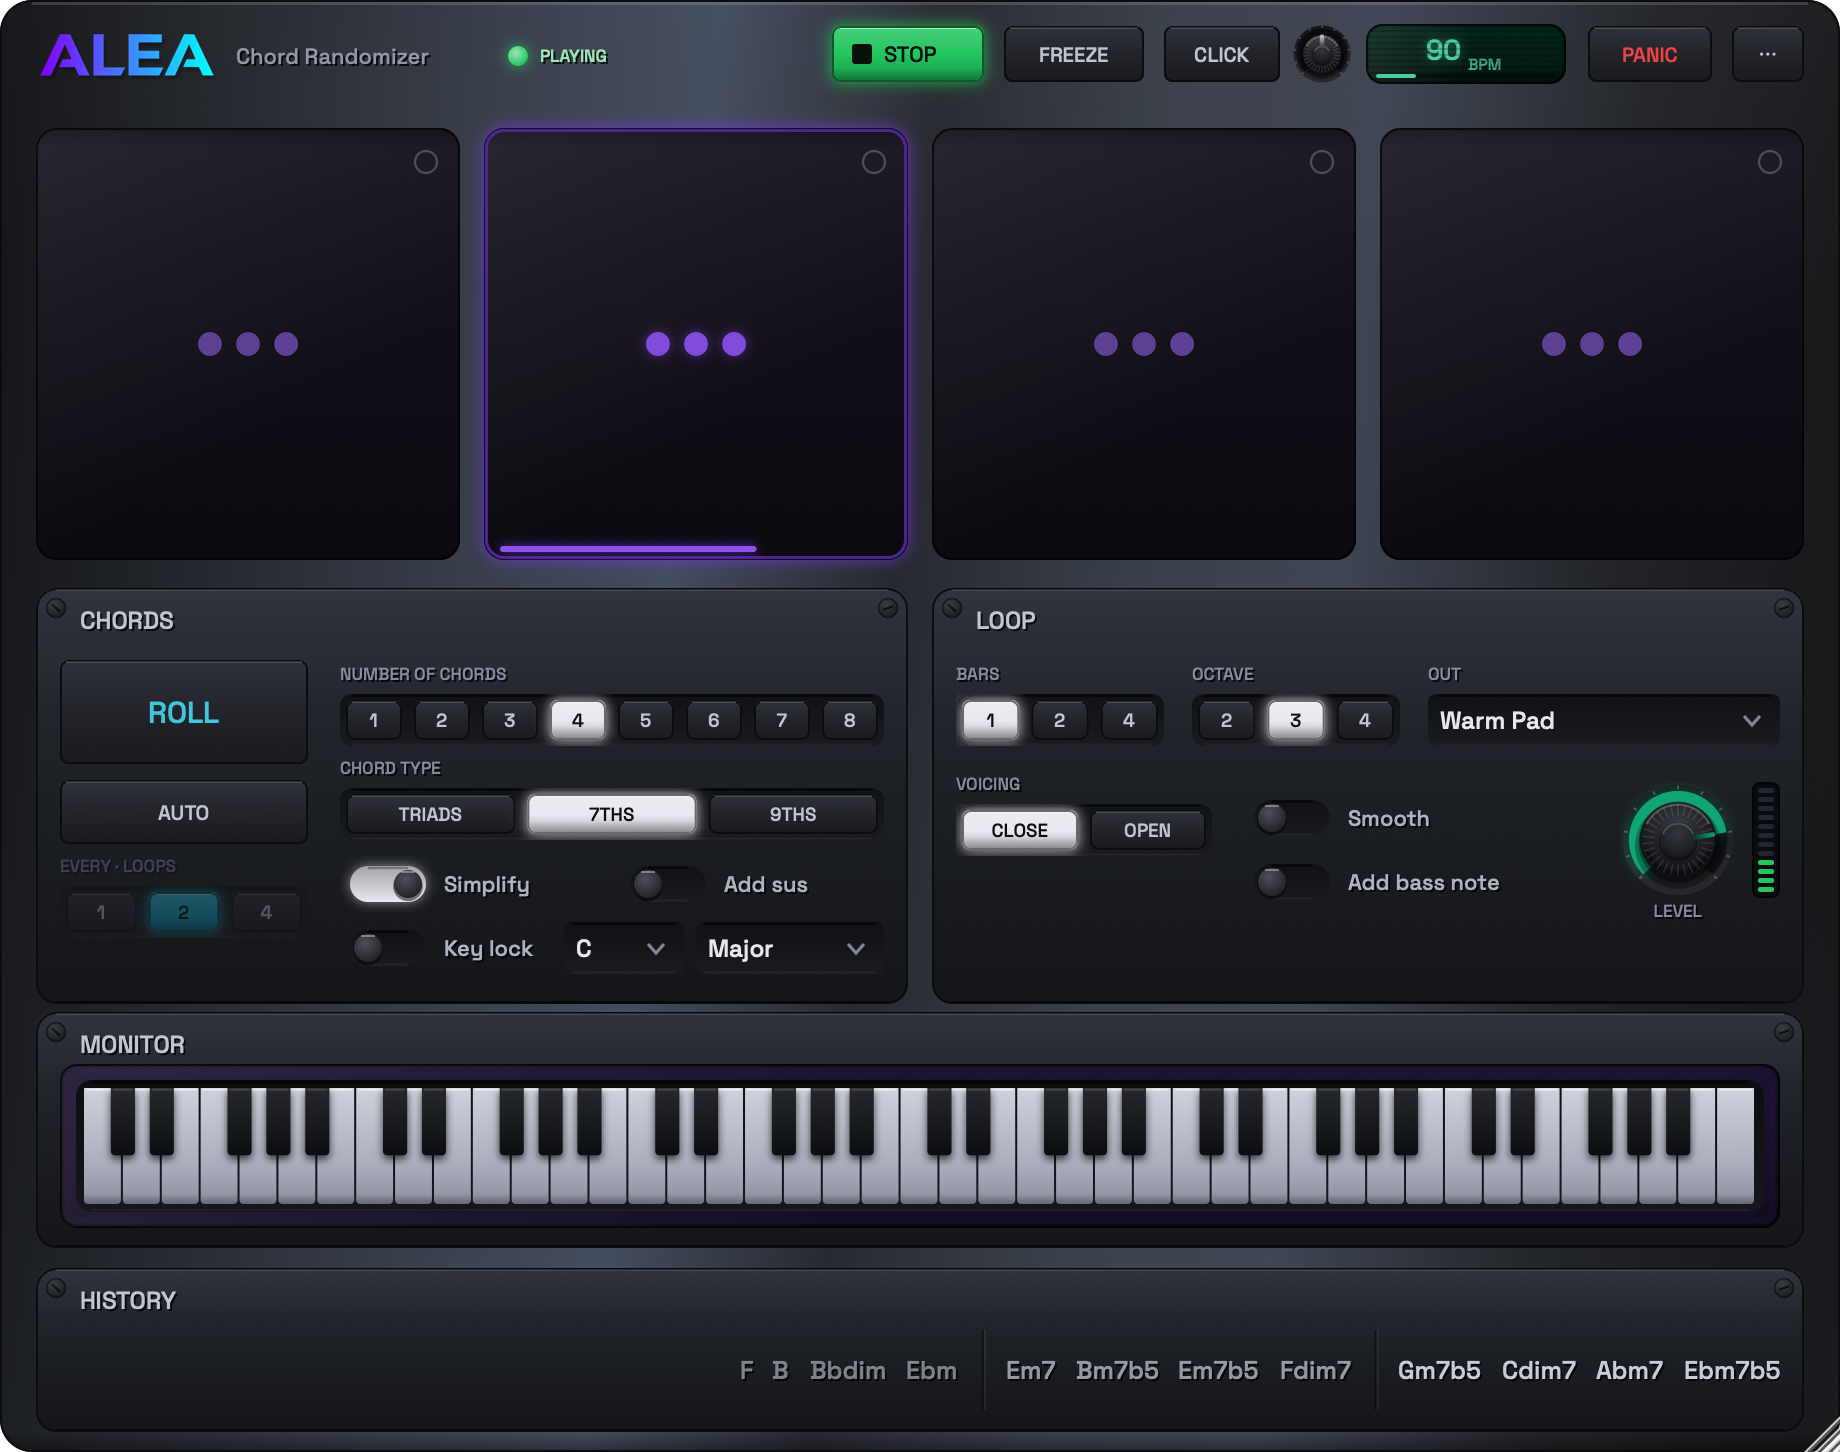
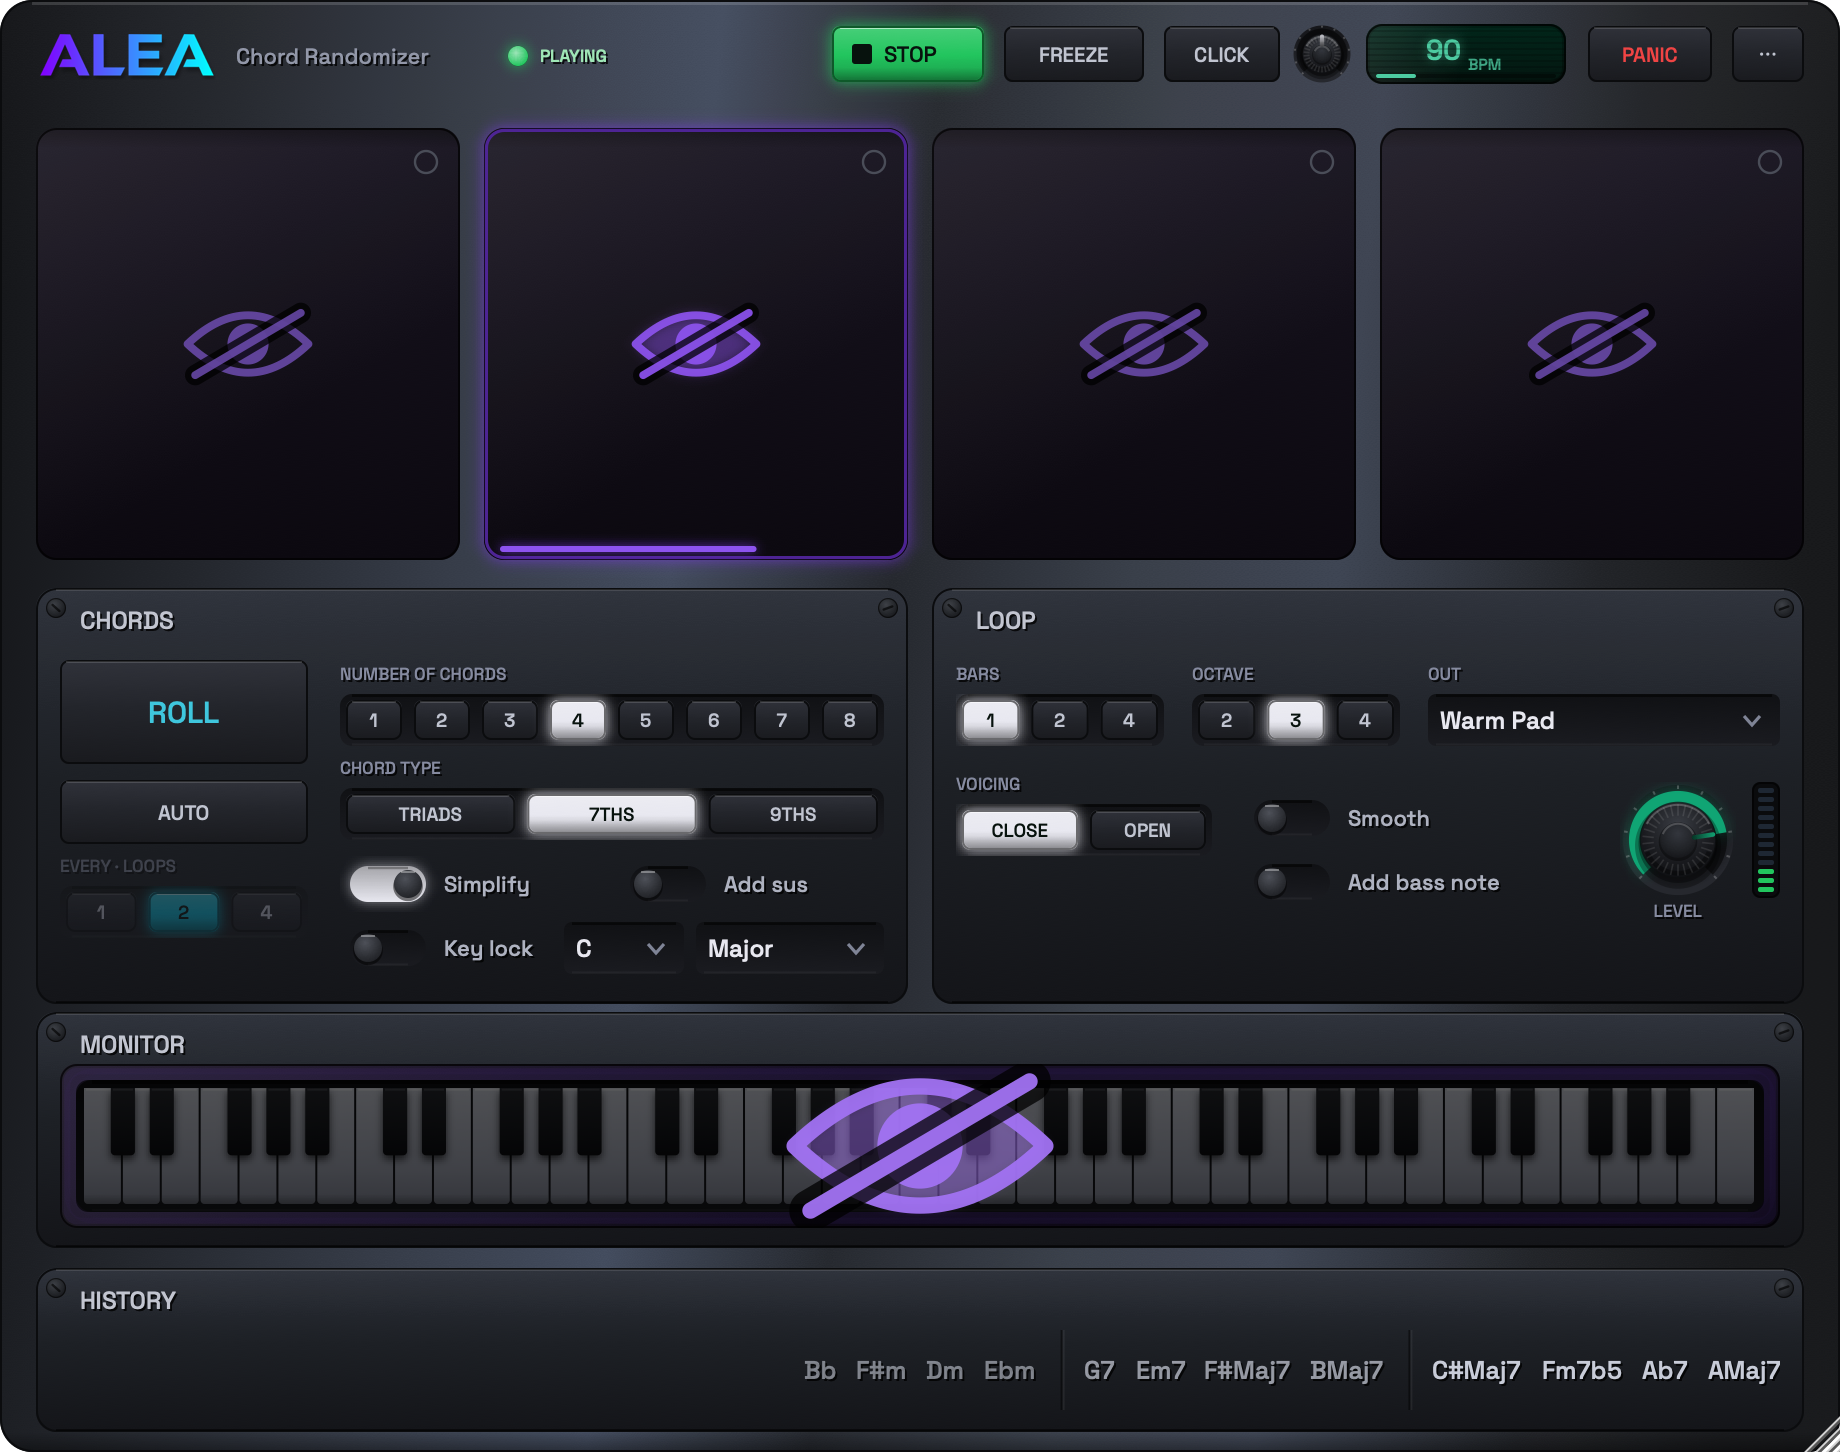
The hidden state says "hidden", and history stops flickering
Four things from Yuval's QA.

History no longer hides anything. The one exception - the still-sounding
series during a pending swap - was correct in theory and wrong in use: it
showed dots for a second or two after every mid-loop roll, which read as a
glitch rather than a rule. His call stands: once a set has been replaced it
is in history, and history reads. The soundingHistoryIndex machinery and its
test go with it.

Three dots said "loading" more than "hidden". Both the cards and the monitor
now wear the crossed-out eye from image editors, drawn as a shared
hw::eyeOff so one meaning has one icon.

The monitor had no indication at all that it was withholding, so a dark
keybed was indistinguishable from a broken one. It dims and carries the same
eye. The app's rule is that the UI never lies, and going quiet with no
explanation is a lie by omission.

Renamed to "ear workout mode" throughout, and the menu item now reads
"Toggle ear workout mode" - it is a switch, and the label should say so.

diff --git a/Source/Chords/ChordsEditor.cpp b/Source/Chords/ChordsEditor.cpp
@@ -31,10 +31,10 @@ namespace
         "MONITOR shows what is sounding. Make the window shorter to "
         "tuck it away and find the chord's notes yourself, a nice "
         "theory workout.\n\n"
-        "The EAR workout is its opposite (press E, or the top-right menu): "
-        "the chord names, the previews and the monitor all hide, and you "
-        "name what you hear. The three dots on a card reveal that one "
-        "chord, and they stay open until the next roll.\n\n"
+        "EAR WORKOUT MODE is its opposite (press E, or the top-right menu): "
+        "the chord names, the previews and the monitor all hide behind a "
+        "crossed-out eye, and you name what you hear. Click the eye on a "
+        "card to reveal that one chord; it stays open until the next roll.\n\n"
         "AUTO rolls for you every few loops (press A to flip it). "
         "Pin a chord (the little dot on its card) and it survives "
         "rolls. Keep what you love, reroll the rest.\n\n"
@@ -118,28 +118,14 @@ void ChordsEditor::ChordCard::paint (juce::Graphics& g)
     // fully lit with a glow while sounding (cyan when it is the incoming one).
     if (hidden)
     {
-        // Withheld, not empty: three drawn dots where the name belongs. They
-        // wear the card's own accent so a sounding card still reads as
-        // sounding, but dimmer than a name would be - the card is telling you
-        // it is holding something back (spec M6). Drawn, never a font glyph.
-        const float r = juce::jmax (3.0f, fontSize * 0.075f);
-        const float gap = r * 3.2f;
-        const auto c = getLocalBounds().toFloat().getCentre();
-        const auto dot = lit ? accent.brighter (0.15f).withAlpha (0.85f)
-                             : colors::purple.interpolatedWith (juce::Colour (0xff6b6f80), 0.45f)
-                                             .withAlpha (0.75f);
-        for (int i = -1; i <= 1; ++i)
-        {
-            const juce::Rectangle<float> d (c.x + (float) i * gap - r, c.y - r, r * 2.0f, r * 2.0f);
-            if (lit)
-            {
-                juce::Path p;
-                p.addEllipse (d);
-                hw::dropGlow (g, p, accent.withAlpha (0.55f), 6);
-            }
-            g.setColour (dot);
-            g.fillEllipse (d);
-        }
+        // Withheld, not empty. Three dots said "loading" more than "hidden"
+        // (Yuval, Aug 14), so the card wears the crossed-out eye everyone
+        // knows from image editors instead. It keeps the card's own accent,
+        // so a sounding card still reads as sounding.
+        const auto ink = lit ? accent.brighter (0.15f)
+                             : colors::purple.interpolatedWith (juce::Colour (0xff6b6f80), 0.45f);
+        hw::eyeOff (g, getLocalBounds().toFloat().withSizeKeepingCentre (fontSize * 0.92f, fontSize * 0.52f),
+                    ink.withAlpha (lit ? 0.92f : 0.78f), lit);
     }
     else
     {
@@ -204,7 +190,9 @@ void ChordsEditor::MonitorStrip::paint (juce::Graphics& g)
 
     // Ear workout: the keys are the answer written in notes, so they stay
     // dark until the sounding card is revealed (spec M6). The screen itself
-    // still glows - the monitor is present, just not telling.
+    // still glows, and it wears the crossed-out eye - without that, a dark
+    // keybed reads as a broken monitor rather than a deliberate one
+    // (Yuval, Aug 14).
     bool lit[128] = {};
     if (! suppressed)
     {
@@ -271,6 +259,19 @@ void ChordsEditor::MonitorStrip::paint (juce::Graphics& g)
     };
     if (below) arrow (true);
     if (above) arrow (false);
+
+    // The monitor says it is withholding, rather than just going quiet. A dark
+    // keybed with no explanation is indistinguishable from a broken one, and
+    // the app's own rule is that the UI never lies by omission either.
+    if (suppressed)
+    {
+        // Dim the keys behind it so the icon has something to sit on, then the
+        // same crossed-out eye the cards wear - one idiom for one meaning.
+        g.setColour (juce::Colours::black.withAlpha (0.62f));
+        g.fillRoundedRectangle (bed, 6.0f);
+        hw::eyeOff (g, bed.withSizeKeepingCentre (bed.getHeight() * 1.9f, bed.getHeight() * 0.95f),
+                    colors::purple.brighter (0.4f).withAlpha (0.95f), true);
+    }
 }
 
 //==============================================================================
@@ -291,28 +292,18 @@ void ChordsEditor::HistoryTicker::paint (juce::Graphics& g)
     const juce::Font font { juce::FontOptions (16.0f, juce::Font::bold) };
     constexpr float chordGap = 10.0f, groupGap = 24.0f;
 
-    // A hidden chord occupies a FIXED width, never its name's width. Sizing a
-    // blinded cell from the real text would let the spacing spell out how long
-    // the chord name is, which is most of the answer (QA Aug 14).
-    const float hiddenW = font.getHeight() * 2.2f;
-
     // Measure every group once: total content width bounds the scroll range.
-    // Blinded groups measure at the hidden width so the layout does not shift
-    // when a group hides or reveals.
     std::vector<float> groupWidths;
     groupWidths.reserve (proc.history.size());
     float contentW = 0.0f;
-    int measured = 0;
     for (const auto& roll : proc.history)
     {
-        const bool groupBlind = measured == blindGroup;
         float groupW = 0.0f;
         for (const auto& c : roll)
-            groupW += (groupBlind ? hiddenW : textWidth (font, c.text())) + chordGap;
+            groupW += textWidth (font, c.text()) + chordGap;
         groupW -= chordGap;
         groupWidths.push_back (groupW);
         contentW += groupW + groupGap;
-        ++measured;
     }
     contentW -= groupGap;
 
@@ -369,28 +360,13 @@ void ChordsEditor::HistoryTicker::paint (juce::Graphics& g)
                              .withAlpha (age == hoveredGroup ? 1.0f : alpha * (age == 0 ? 1.0f : 0.85f));
         g.setFont (font);
 
-        // Ear workout: everything in history is a roll you have already moved
-        // past, so it reads normally - EXCEPT the entry that is STILL
-        // SOUNDING, which a mid-loop roll files here before it stops playing.
-        // The editor supplies its index, because it is not always the newest.
-        const bool blind = age == blindGroup;
-
         float x = startX;
         for (const auto& c : roll)
         {
             const auto t = c.text();
-            const float w = blind ? hiddenW : textWidth (font, t);
+            const float w = textWidth (font, t);
             const auto cell = juce::Rectangle<float> (x, area.getY(), w + 2.0f, area.getHeight()).toNearestInt();
-            if (blind)
-            {
-                const float r = juce::jmax (1.5f, font.getHeight() * 0.09f);
-                const auto centre = cell.toFloat().getCentre();
-                g.setColour (ink);
-                for (int d = -1; d <= 1; ++d)
-                    g.fillEllipse (centre.x + (float) d * r * 3.2f - r, centre.y - r, r * 2.0f, r * 2.0f);
-            }
-            else
-                hw::engraved (g, t, cell, juce::Justification::centredLeft, ink);
+            hw::engraved (g, t, cell, juce::Justification::centredLeft, ink);
             x += w + chordGap;
         }
 
@@ -1050,10 +1026,6 @@ void ChordsEditor::refresh()
     monitor.suppressed = ear
                       && ! (sounding >= 0 && sounding < (int) revealed.size()
                             && revealed[(size_t) sounding]);
-    // The ear workout hides the history entry that is still sounding; the
-    // processor owns that lookup, so the rule is testable and lives once.
-    ticker.blindGroup = ear && pendingSwap ? chordsProc.soundingHistoryIndex() : -1;
-
     ticker.repaint();
     resized(); // card widths depend on how many are visible
     repaint(); // card blooms + gated captions live in the editor's layer
@@ -1148,7 +1120,7 @@ void ChordsEditor::showMenu()
     // SafePointer, not a raw this: the menu is shown asynchronously and a host
     // can close the editor while it is open, which would land this callback on
     // a destroyed component. The neighbouring items capture nothing at all.
-    m.addItem (juce::PopupMenu::Item ("Ear workout")
+    m.addItem (juce::PopupMenu::Item ("Toggle ear workout mode")
                    .setTicked (chordsProc.earMode.load())
                    .setAction ([safe = juce::Component::SafePointer<ChordsEditor> (this)]
                                {

diff --git a/Source/Hardware.cpp b/Source/Hardware.cpp
@@ -1394,6 +1394,59 @@ bool midiDevicesChanged (const juce::Array<juce::MidiDeviceInfo>& known)
 }
 
 //==============================================================================
+namespace hw
+{
+void eyeOff (juce::Graphics& g, juce::Rectangle<float> area, juce::Colour colour, bool glow)
+{
+    // Fit an eye of the classic 2:1 proportion inside whatever box we are
+    // given, so callers can hand over a rough area and get a correct shape.
+    const float w = juce::jmin (area.getWidth(), area.getHeight() * 2.0f);
+    const float h = w * 0.5f;
+    const auto c = area.getCentre();
+    const float x0 = c.x - w * 0.5f, x1 = c.x + w * 0.5f;
+    const float stroke = juce::jmax (1.4f, h * 0.13f);
+
+    // The lens: two arcs meeting at the corners.
+    juce::Path eye;
+    eye.startNewSubPath (x0, c.y);
+    eye.quadraticTo (c.x, c.y - h * 0.95f, x1, c.y);
+    eye.quadraticTo (c.x, c.y + h * 0.95f, x0, c.y);
+    eye.closeSubPath();
+
+    juce::Path pupil;
+    const float pr = h * 0.34f;
+    pupil.addEllipse (c.x - pr, c.y - pr, pr * 2.0f, pr * 2.0f);
+
+    // The slash, corner to corner across the lens.
+    const float reach = w * 0.56f;
+    juce::Path slash;
+    slash.startNewSubPath (c.x - reach * 0.78f, c.y + reach * 0.46f);
+    slash.lineTo (c.x + reach * 0.78f, c.y - reach * 0.46f);
+
+    if (glow)
+    {
+        juce::Path lit (eye);
+        lit.addPath (pupil);
+        hw::dropGlow (g, lit, colour.withAlpha (0.45f), 7);
+    }
+
+    g.setColour (colour);
+    g.strokePath (eye, juce::PathStrokeType (stroke, juce::PathStrokeType::curved,
+                                             juce::PathStrokeType::rounded));
+    g.fillPath (pupil);
+
+    // A dark gap under the slash so it reads as ON TOP of the eye rather than
+    // as another line crossing it - the same trick the engraved text uses.
+    g.setColour (juce::Colours::black.withAlpha (0.75f));
+    g.strokePath (slash, juce::PathStrokeType (stroke * 2.6f, juce::PathStrokeType::curved,
+                                               juce::PathStrokeType::rounded));
+    g.setColour (colour);
+    g.strokePath (slash, juce::PathStrokeType (stroke, juce::PathStrokeType::curved,
+                                               juce::PathStrokeType::rounded));
+}
+} // namespace hw
+
+//==============================================================================
 juce::String screenshotPose()
 {
     auto* app = juce::JUCEApplicationBase::getInstance();

diff --git a/Source/Chords/ChordsEditor.h b/Source/Chords/ChordsEditor.h
@@ -73,13 +73,6 @@ private:
         explicit HistoryTicker (ChordsProcessor& p) : proc (p) {}
         ChordsProcessor& proc;
         std::function<void (int)> onRecall;
-        // Ear workout: rolling mid-loop files the outgoing series into history
-        // while it is STILL SOUNDING, so that one entry is the answer to what
-        // you are hearing and stays hidden until the swap lands. It is NOT
-        // always the newest: roll twice before the boundary and the newest
-        // entry is a roll that never sounded, while the sounding one sits
-        // behind it. The editor works out which index that is.
-        int blindGroup = -1;    // history index to hide, -1 = none
 
         float scroll = 0.0f;        // 0 = pinned to the newest roll; grows into the past
         float maxScroll = 0.0f;     // measured during paint

diff --git a/Source/Hardware.h b/Source/Hardware.h
@@ -124,6 +124,12 @@ namespace hw
     // A button's current 0..1 backlight (AnimatedButton's crossfade, or the
     // plain toggle state) - what keyBloom wants as `amount`.
     float litAmount (const juce::Button&);
+
+    // "Deliberately hidden": the crossed-out eye everyone already knows from
+    // image editors. Drawn, never a font glyph, and used wherever the app is
+    // withholding something on purpose - so a dark monitor or a nameless card
+    // reads as a decision rather than a fault.
+    void eyeOff (juce::Graphics&, juce::Rectangle<float> area, juce::Colour, bool glow = false);
 }
 
 // Draw the ALEA wordmark, width-fit and vertically centred in `box`, with a

diff --git a/README.md b/README.md
@@ -114,12 +114,12 @@ shapes.
 - **Two workouts**: tuck the keyboard away and find the chord's notes
   yourself, or hide the names and work out what you are hearing.
 
-### The ear workout
+### Ear workout mode
 
-Press E and the chord names, the previews and the keyboard all hide. The
-loop keeps playing and the sounding card still glows, so you know where you
-are without knowing what it is. Name the chord, then press the three dots on
-its card to check yourself.
+Press E and the chord names, the previews and the keyboard all hide behind a
+crossed-out eye. The loop keeps playing and the sounding card still glows, so
+you know where you are without knowing what it is. Name the chord, then click
+the eye on its card to check yourself.
 
 ![The Chord Randomizer's ear workout](docs/chords-ear-ui.png)
 
